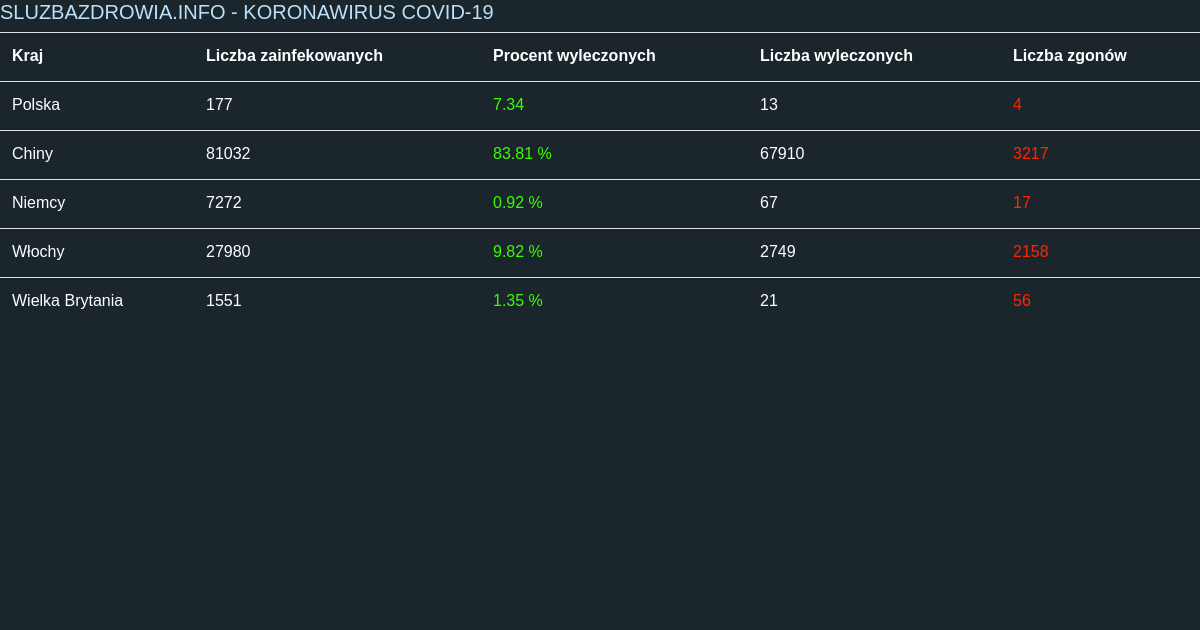
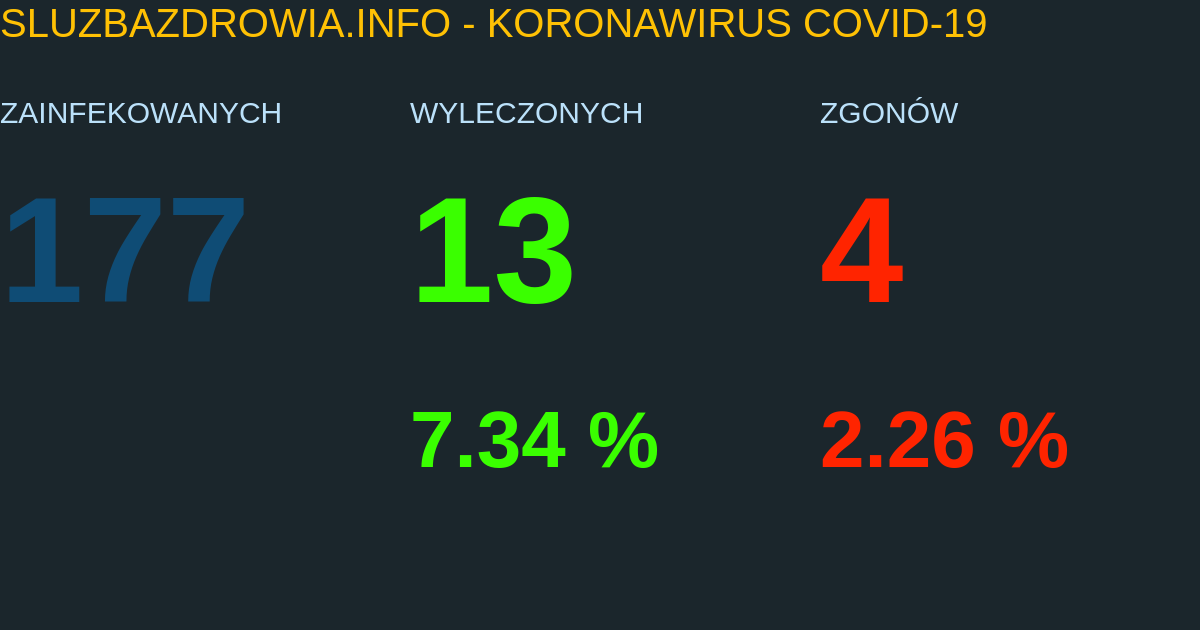
og tags for facebook

diff --git a/js/app.js b/js/app.js
@@ -42,38 +42,6 @@ function appendData(covidData) {
             '<td>'+deaths+'</td>' +
             '</tr>'
         );
-
-        if (country === 'China') {
-            $('.china').append('<td>Chiny</td>');
-            $('.china').append('<td>'+infected+'</td>');
-            $('.china').append('<td class="tdCured">'+curedPercentage+' %</td>');
-            $('.china').append('<td>'+cured+'</td>');
-            $('.china').append('<td class="tdDeaths">'+deaths+'</td>');
-        }
-
-        if (country === 'Germany') {
-            $('.germany').append('<td>Niemcy</td>');
-            $('.germany').append('<td>'+infected+'</td>');
-            $('.germany').append('<td class="tdCured">'+curedPercentage+' %</td>');
-            $('.germany').append('<td>'+cured+'</td>');
-            $('.germany').append('<td class="tdDeaths">'+deaths+'</td>');
-        }
-
-        if (country === 'Italy') {
-            $('.italy').append('<td>Włochy</td>');
-            $('.italy').append('<td>'+infected+'</td>');
-            $('.italy').append('<td class="tdCured">'+curedPercentage+' %</td>');
-            $('.italy').append('<td>'+cured+'</td>');
-            $('.italy').append('<td class="tdDeaths">'+deaths+'</td>');
-        }
-
-        if (country === 'United Kingdom') {
-            $('.uk').append('<td>Wielka Brytania</td>');
-            $('.uk').append('<td>'+infected+'</td>');
-            $('.uk').append('<td class="tdCured">'+curedPercentage+' %</td>');
-            $('.uk').append('<td>'+cured+'</td>');
-            $('.uk').append('<td class="tdDeaths">'+deaths+'</td>');
-        }
     });
 }
 
@@ -89,12 +57,6 @@ function appendPolishData(covidPolishData) {
     $('.deathsPercentage').append(deathsPercentage+' %');
     $('.cured').append(cured);
     $('.curedPercentage').append(curedPercentage+ ' %');
-
-    $('.poland').append('<td>Polska</td>');
-    $('.poland').append('<td>'+infected+'</td>');
-    $('.poland').append('<td class="tdCured">'+curedPercentage+'</td>');
-    $('.poland').append('<td>'+cured+'</td>');
-    $('.poland').append('<td class="tdDeaths">'+deaths+'</td>');
 
     createCanvas();
 }
@@ -129,11 +91,14 @@ var setVisited = function () {
 }
 
 function createCanvas() {
-    var element = $('.tableForCanvas'); // global variable
+    var element = $('.dataForCanvas'); // global variable
     var getCanvas; // global variable
 
     html2canvas(element, {
         onrendered: function (canvas) {
+            var dataUrl = canvas.toDataURL("image/png");
+            console.log(dataUrl);
+            var img =
             $(".previewImage").append(canvas);
             getCanvas = canvas;
         }

diff --git a/index.html b/index.html
@@ -101,37 +101,27 @@
         <a href="#" class="btn-sm btn-warning" onclick="setVisited()">OK</a>
     </div>
 
-    <div class="tableForCanvas">
-        <h4>SLUZBAZDROWIA.INFO - KORONAWIRUS COVID-19</h4>
-        <table class="table">
-            <tr>
-                <th>Kraj</th>
-                <th>Liczba zainfekowanych</th>
-                <th>Procent wyleczonych</th>
-                <th>Liczba wyleczonych</th>
-                <th>Liczba zgonów</th>
-            </tr>
-            <tr class="poland">
-
-            </tr>
-            <tr class="china">
-
-            </tr>
-            <tr class="germany">
-
-            </tr>
-            <tr class="italy">
-
-            </tr>
-            <tr class="uk">
-
-            </tr>
-        </table>
+    <div class="dataForCanvas">
+        <h1 class="canvasHeader">SLUZBAZDROWIA.INFO - KORONAWIRUS COVID-19</h1>
+        <div class="row mt-5">
+            <div class="col-4">
+                <h2>ZAINFEKOWANYCH</h2>
+                <p class="infected"></p>
+            </div>
+            <div class="col-4">
+                <h2>WYLECZONYCH</h2>
+                <p class="cured"></p>
+                <p class="curedPercentage"></p>
+            </div>
+            <div class="col-4">
+                <h2>ZGONÓW</h2>
+                <p class="deaths"></p>
+                <p class="deathsPercentage"></p>
+            </div>
+        </div>
     </div>
 
-    <div class="previewImage">
-
-    </div>
+    <div class="previewImage"></div>
 
     <script src="https://ajax.googleapis.com/ajax/libs/jquery/3.2.1/jquery.min.js"></script>
     <script src="https://cdnjs.cloudflare.com/ajax/libs/popper.js/1.12.9/umd/popper.min.js" integrity="sha384-ApNbgh9B+Y1QKtv3Rn7W3mgPxhU9K/ScQsAP7hUibX39j7fakFPskvXusvfa0b4Q" crossorigin="anonymous"></script>

diff --git a/css/style.css b/css/style.css
@@ -92,6 +92,22 @@ h4 {
     height: 630px;
 }
 
+.canvasHeader {
+    color: #ffc104;
+}
+
+p.infected {
+    font-size: 150px;
+}
+
+p.cured {
+    font-size: 150px;
+}
+
+p.deaths {
+    font-size: 150px;
+}
+
 @media screen and  (min-width: 768px) and (max-width: 992px) {
     h1 {
         font-size: 25px;
